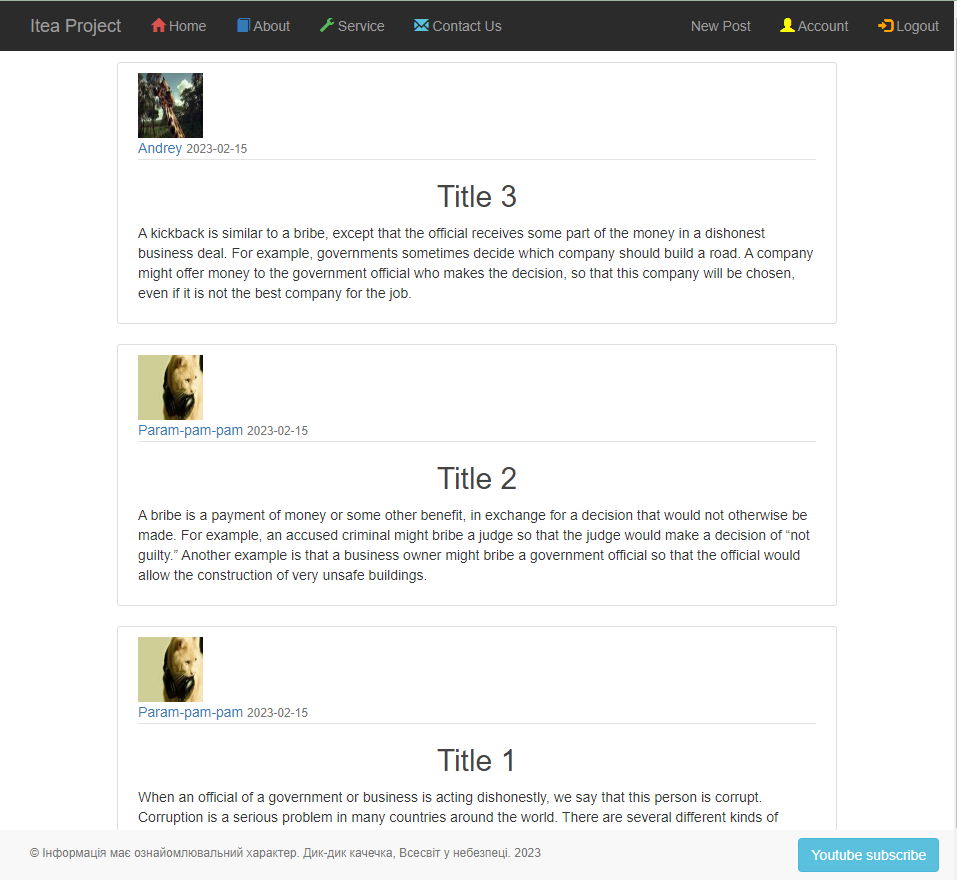
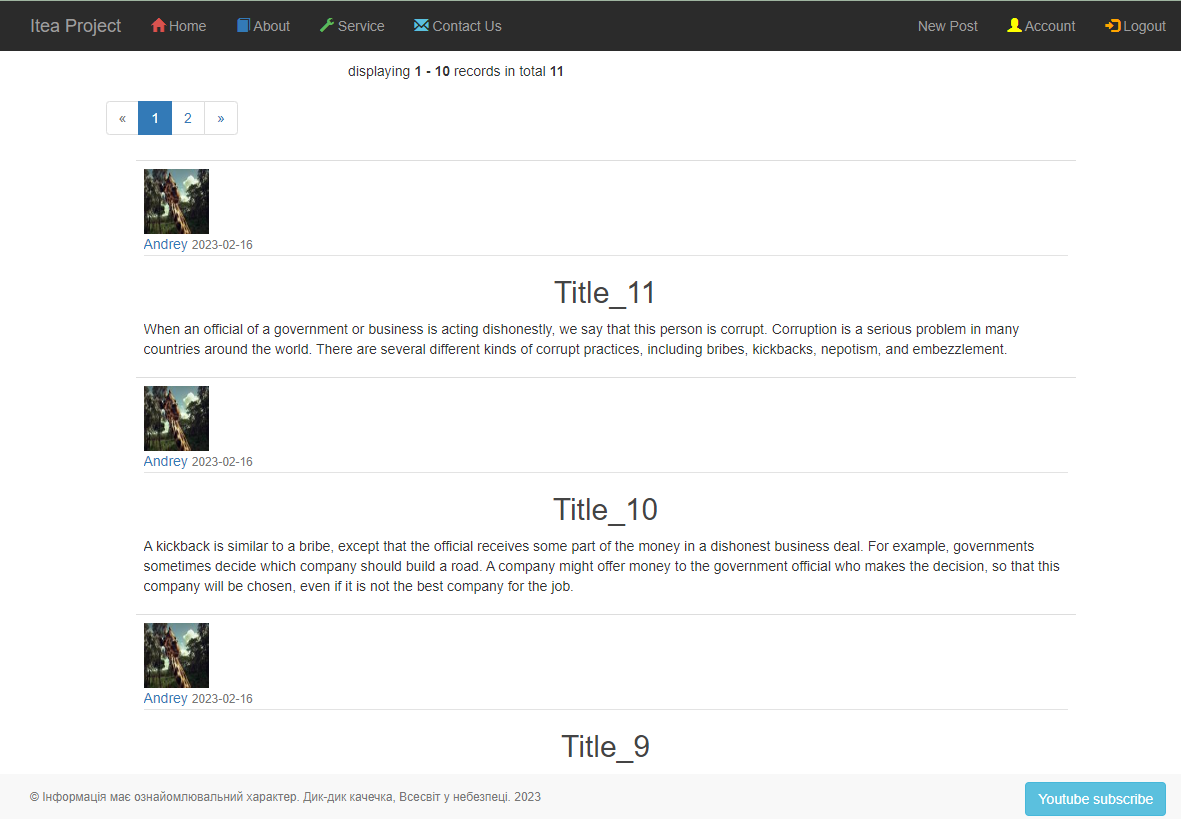
8. added pagination posts

Changed region(s): [[0.0, 0.0, 1.0, 0.9768], [0.8182, 0.9463, 1.0, 1.0]]

diff --git a/app/templates/main/index.html b/app/templates/main/index.html
@@ -6,33 +6,51 @@
     <div class="row">
         <div class="col-md-3"></div>
 
+        {{ pagination.info }}
+        {{ pagination.links }}
+
         <div class="col-md-8">
-            {% for post in posts %}
-                <article class="media content-section">
-                    <img class="rounded-circle article-img"
-                         src="{{ url_for('static', filename='profile_pics/' + post.author.profile.avatar) }}">
-                    <div class="media-body">
 
-                        <div class="article-metadata">
-                            <a class="mr-2" href="{{ url_for('posts.user_posts', username=post.author.username) }}">
-                                {{ post.author.username }}
-                            </a>
 
-                            <small class="text-muted">
-                                {{ post.date_posted.strftime('%Y-%m-%d') }}
-                            </small>
-                        </div>
+            <div class="container">
+                <div class="table-responsive">
 
-                        <h2><a class="article-title" href="{{ url_for('posts.post_func', post_id=post.id) }}">
-                            {{ post.title }}
-                        </a></h2>
+                    <table class="table table-hover">
+                        <thead></thead>
+                        <tbody>
+                        {% for post in posts %}
+                            <tr>
+                                <td>
+                                    <img class="rounded-circle article-img"
+                                         src="{{ url_for('static', filename='profile_pics/' + post.author.profile.avatar) }}">
+                                    <div class="media-body">
 
-                        <p class="article-content">{{ post.content }}</p>
-                    </div>
+                                        <div class="article-metadata">
+                                            <a class="mr-2"
+                                               href="{{ url_for('posts.user_posts', username=post.author.username) }}">
+                                                {{ post.author.username }}
+                                            </a>
+                                            <small class="text-muted">{{ post.date_posted.strftime('%Y-%m-%d') }}</small>
+                                        </div>
 
-                </article>
-            {% endfor %}
+                                        <h2><a class="article-title"
+                                               href="{{ url_for('posts.post_func', post_id=post.id) }}">
+                                            {{ post.title }}
+                                        </a></h2>
+
+                                        <p class="article-content">{{ post.content }}</p>
+                                    </div>
+                                </td>
+                            </tr>
+                        {% endfor %}
+                        </tbody>
+                    </table>
+                    {{ pagination.links }}
+                </div>
+            </div>
         </div>
+
+
         <div class="col-md-3"></div>
     </div>
 

diff --git a/app/main/routes.py b/app/main/routes.py
@@ -4,7 +4,6 @@ from flask_paginate import Pagination, get_page_args
 
 from app.auth.models import Role, Profile, Post, User
 from app.auth.utils import get_quantity
-
 from app.main import main
 
 @main.route('/')
@@ -15,16 +14,24 @@ def index():
     if not Role.select().where(Role.name == 'user').first():
         Role(name='user').save()
 
-    query = Post.select().order_by(Post.date_posted.desc())
-    # for row in query:
-    #     print(row.id, row.title, row.content,
-    #           row.author.username, row.author.email,
-    #           row.author.profile.avatar, row.author.profile.info, row.author.profile.city, row.author.profile.age)
+    page, per_page, offset = get_page_args(page_parameter='page',
+                                           per_page_parameter='per_page')
+
+    blog = Post.select().order_by(Post.date_posted.desc())
+    total = blog.count()
+
+    pagination_posts = get_quantity(blog, offset=offset, per_page=per_page)
+
+    pagination = Pagination(page=page, per_page=per_page, total=total,
+                            css_framework='bootstrap4')
 
     title = "Home"
-    return render_template("main/index.html",
+    return render_template('main/index.html',
+                           posts=pagination_posts,
                            title=title,
-                           posts=query)
+                           page=page,
+                           per_page=per_page,
+                           pagination=pagination)
 
 
 @main.route('/about')

diff --git a/README.md b/README.md
@@ -10,7 +10,7 @@
 5. [ ] Login and Authentication - &#9989;
 6. [ ] User account profile - &#9989;
 7. [ ] Posts - &#9989;
-8. [ ] Pagination users - &#9989;, pagination posts - &#10060;
+8. [ ] Pagination users - &#9989;, pagination posts - &#9989;
 9. [ ]  Password reset Email - &#10060; / &#9989; _Look at the end of the document_ 	&#8659;
 10. [ ] Error handlers - &#9989;
 
